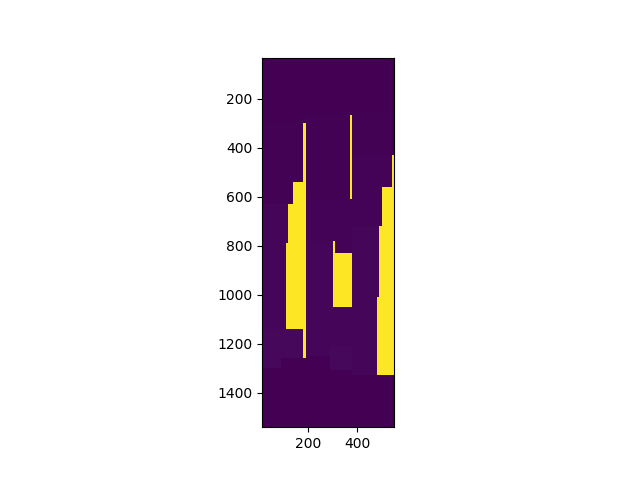
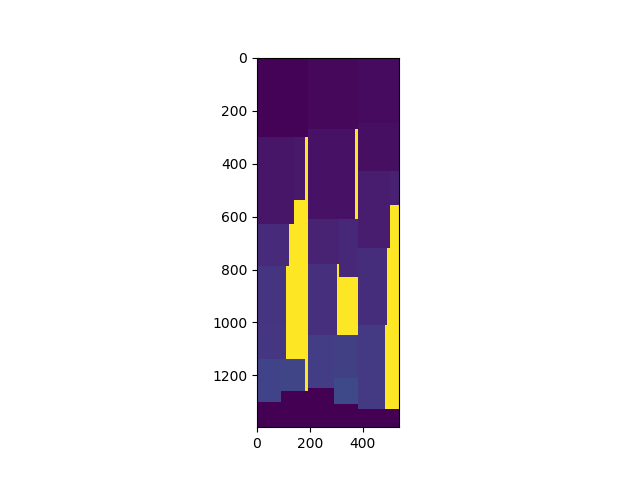
Update figures with better color distinction

Changed region(s): [[0.3125, 0.0938, 0.625, 0.9375], [0.5312, 0.9062, 0.5938, 0.9375], [0.4688, 0.9062, 0.5, 0.9375]]

diff --git a/Code/helper.py b/Code/helper.py
@@ -8,6 +8,7 @@ includes every function necessary for a certain algorithm.
 """
 import numpy as np
 from classes import *
+import math
 
 # Define constants
 ROLL_A = 500
@@ -106,13 +107,13 @@ def search(possibleWidth, remainingOrders):
 
         if subOrder.shape[1] <= possibleWidth and subOrder.shape[1] > bestFit.shape[1]:
             bestFit = subOrder
-            subOrder = rotation(subOrder)
-            if subOrder.shape[1] <= possibleWidth and subOrder.shape[1] > bestFit.shape[1]:
-                bestFit = subOrder
-        else:
-            subOrder = rotation(subOrder)
-            if subOrder.shape[1] <= possibleWidth and subOrder.shape[1] > bestFit.shape[1]:
-                bestFit = subOrder
+        #     subOrder = rotation(subOrder)
+        #     if subOrder.shape[1] <= possibleWidth and subOrder.shape[1] > bestFit.shape[1]:
+        #         bestFit = subOrder
+        # else:
+        #     subOrder = rotation(subOrder)
+        #     if subOrder.shape[1] <= possibleWidth and subOrder.shape[1] > bestFit.shape[1]:
+        #         bestFit = subOrder
 
         # If maximum width of array is reached break loop and return bestFit
         if bestFit.shape[1] == possibleWidth:
@@ -167,7 +168,7 @@ def fill(roll, skyline):
     row = skyline[0]
     startingCol = skyline[1]
     possibleWidth = skyline[2]
-    filler = 999
+    filler = 9999
     for i in range(roll.shape[0]):
         if roll[row + i][startingCol - 1] == 0:
             break
@@ -188,7 +189,7 @@ def pack(roll, skyline, bestFit, orderNum):
     startingCol = skyline[1]
     for i in range(bestFit.shape[0]):
         for j in range(bestFit.shape[1]):
-            roll[row + i][startingCol + j] = orderNum
+            roll[row + i][startingCol + j] = (orderNum * 100)
     return roll
 
 def cost(roll):
